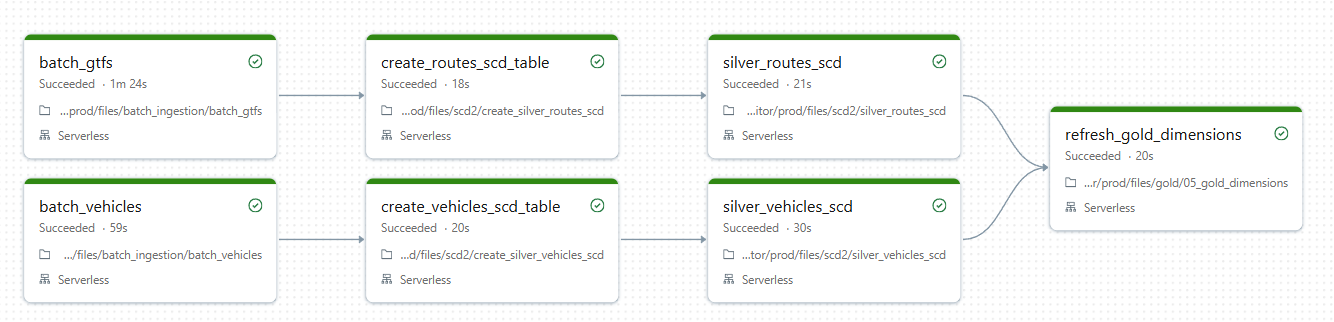
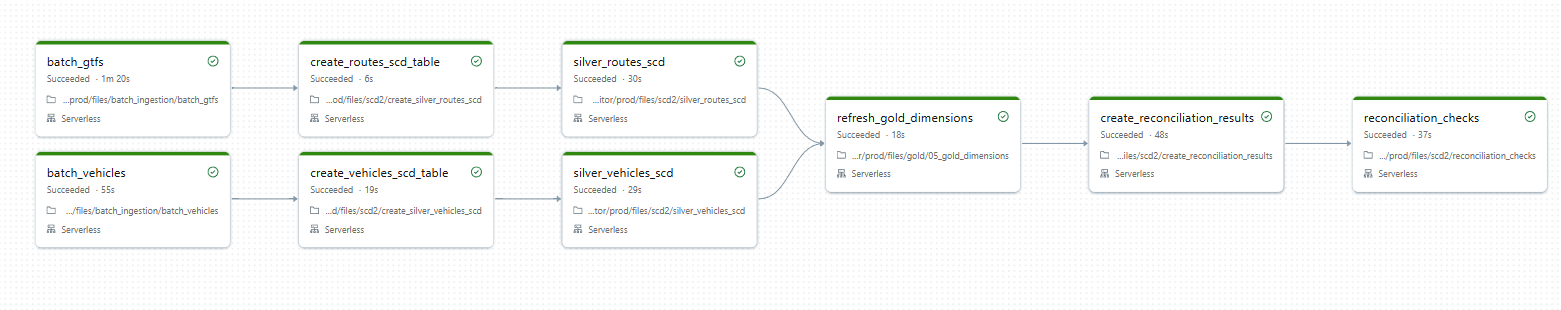
New image in README

diff --git a/README.md b/README.md
@@ -205,8 +205,10 @@ the live and map dashboards after the aggregations. The consumer drains with
 
 GTFS and the roster are ingested (`batch_gtfs`, `batch_vehicles`), the SCD tables are created if
 missing, the SCD loads run (`silver_routes_scd`, `silver_vehicles_scd`), and gold dimensions are
-refreshed. This job is separate from the streaming job on purpose, so reference data is not re-loaded
-on every streaming cycle.
+refreshed. It then runs the cross-layer reconciliation: `create_reconciliation_results` provisions the
+history table and `reconciliation_checks` compares business keys between the layers, appending the
+counts that the reconciliation alert reads. This job is separate from the streaming job on purpose, so
+reference data is not re-loaded on every streaming cycle.
 
 ### Parameters
 Environment-specific values are exposed as bundle variables and notebook widgets rather than
